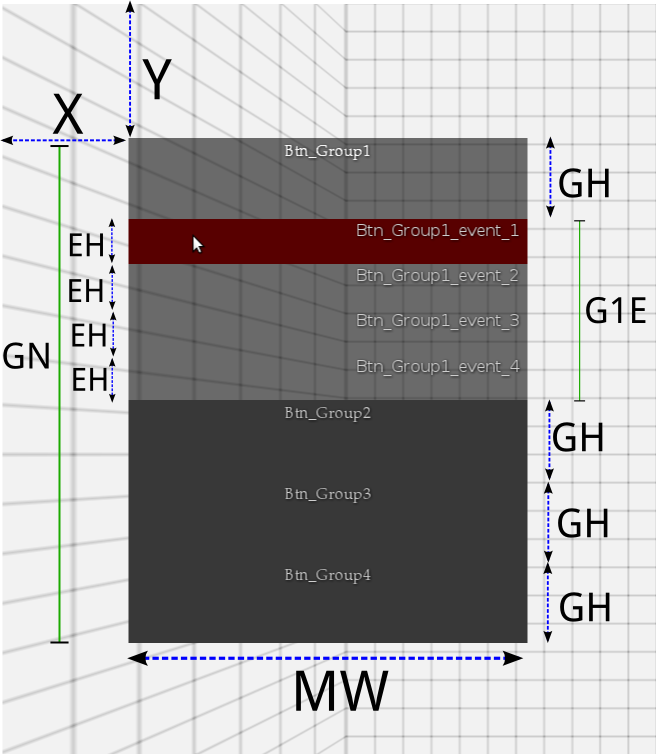
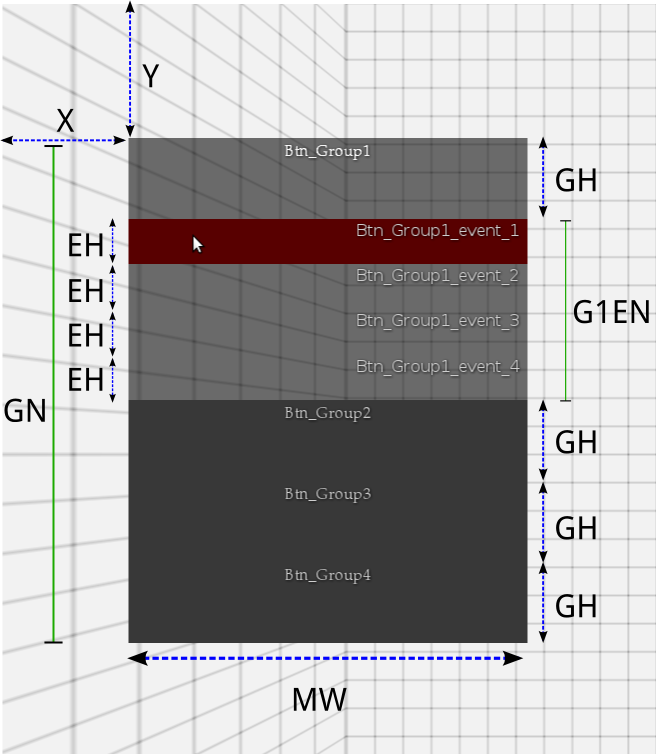
user variables figure

diff --git a/deploy/blog/accordion-menu-krpano-panorama-viewer.html b/deploy/blog/accordion-menu-krpano-panorama-viewer.html
@@ -91,13 +91,13 @@ All dimensions are in % (percentage) of the viewers width and height. Please tak
     <span class="image_figure">figure 1</span><br> 
     user variables to generate the accordion menu<br> 
     <div id="legend">
-      <span style="font-weight:400;">X</span>: horizontal field of view,
-      <span style="font-weight:400;">Y</span>: distance of camera from object,
-      <span style="font-weight:400;"><span class="caps">GH</span></span>: equal sides of isosceles triangle,
-      <span style="font-weight:400;"><span class="caps">EH</span></span>: Parthenon East Facade,
-      <span style="font-weight:400;"><span class="caps">G1E</span></span>: camera,
-      <span style="font-weight:400;"><span class="caps">GN</span></span>: Acropolis groundplan orthophoto
-      <span style="font-weight:400;"><span class="caps">MW</span></span>: Acropolis groundplan orthophoto
+      <span style="font-weight:400;">X</span>: x position of menu (origin top left),
+      <span style="font-weight:400;">Y</span>: y position of menu (origin top left),
+      <span style="font-weight:400;"><span class="caps">MW</span></span>: width of menu,
+      <span style="font-weight:400;"><span class="caps">GH</span></span>: group buttons height,
+      <span style="font-weight:400;"><span class="caps">EH</span></span>: event buttons height,
+      <span style="font-weight:400;"><span class="caps">GN</span></span>: quantity of group buttons,
+      <span style="font-weight:400;"><span class="caps">G1EN</span></span>: quantity of event buttons for group 1
     </div><br />
 </div></p>
 <h1 id="a-quick-look-at-the-code">A quick look at the&nbsp;code</h1>
@@ -241,6 +241,9 @@ set(plugin[Btn_Group2_event_1].onclick,loadscene_2());
 </ul>
 <h1 id="the-github-repository">The github&nbsp;repository</h1>
 <p>As mentioned earlier I&#8217;ve creted a github repository to host the code of the generator. I&#8217;m planning to extend the project with an image based accordion menu in the future like the one you can see in the Acropolis Virtual Tour when you click at the &#8220;Detail Views&#8221; button. I also hope that I get some help from other krpano developers for this next&nbsp;task.</p>
+<div class="button_demo_container">
+<a class="button_demo white" href="http://www.simulzine.com/demos/accordion-menu/index.html" target="_blank">view github repository &#187;&#187;</a>
+</div>
 <div class="article_tags">
 <ul class="tags clear">
 tags:

diff --git a/content/blog/accordion-menu-krpano-panorama-viewer.html b/content/blog/accordion-menu-krpano-panorama-viewer.html
@@ -46,13 +46,13 @@ All dimensions are in % (percentage) of the viewers width and height. Please tak
 	<span class="image_figure">figure 1</span><br> 
 	user variables to generate the accordion menu<br> 
 	<div id="legend">
-	  <span style="font-weight:400;">X</span>: horizontal field of view,
-	  <span style="font-weight:400;">Y</span>: distance of camera from object,
-	  <span style="font-weight:400;">GH</span>: equal sides of isosceles triangle,
-	  <span style="font-weight:400;">EH</span>: Parthenon East Facade,
-	  <span style="font-weight:400;">G1E</span>: camera,
-	  <span style="font-weight:400;">GN</span>: Acropolis groundplan orthophoto
-	  <span style="font-weight:400;">MW</span>: Acropolis groundplan orthophoto
+	  <span style="font-weight:400;">X</span>: x position of menu (origin top left),
+	  <span style="font-weight:400;">Y</span>: y position of menu (origin top left),
+	  <span style="font-weight:400;">MW</span>: width of menu,
+	  <span style="font-weight:400;">GH</span>: group buttons height,
+	  <span style="font-weight:400;">EH</span>: event buttons height,
+	  <span style="font-weight:400;">GN</span>: quantity of group buttons,
+	  <span style="font-weight:400;">G1EN</span>: quantity of event buttons for group 1
 	</div>  
 </div>
 
@@ -206,5 +206,9 @@ set(plugin[Btn_Group2_event_1].onclick,loadscene_2());
 # The github repository #
 
 As mentioned earlier I've creted a github repository to host the code of the generator. I'm planning to extend the project with an image based accordion menu in the future like the one you can see in the Acropolis Virtual Tour when you click at the "Detail Views" button. I also hope that I get some help from other krpano developers for this next task.
+
+<div class="button_demo_container">
+<a class="button_demo white" href="http://www.simulzine.com/demos/accordion-menu/index.html" target="_blank">view github repository &#187;&#187;</a>
+</div>
 
 
